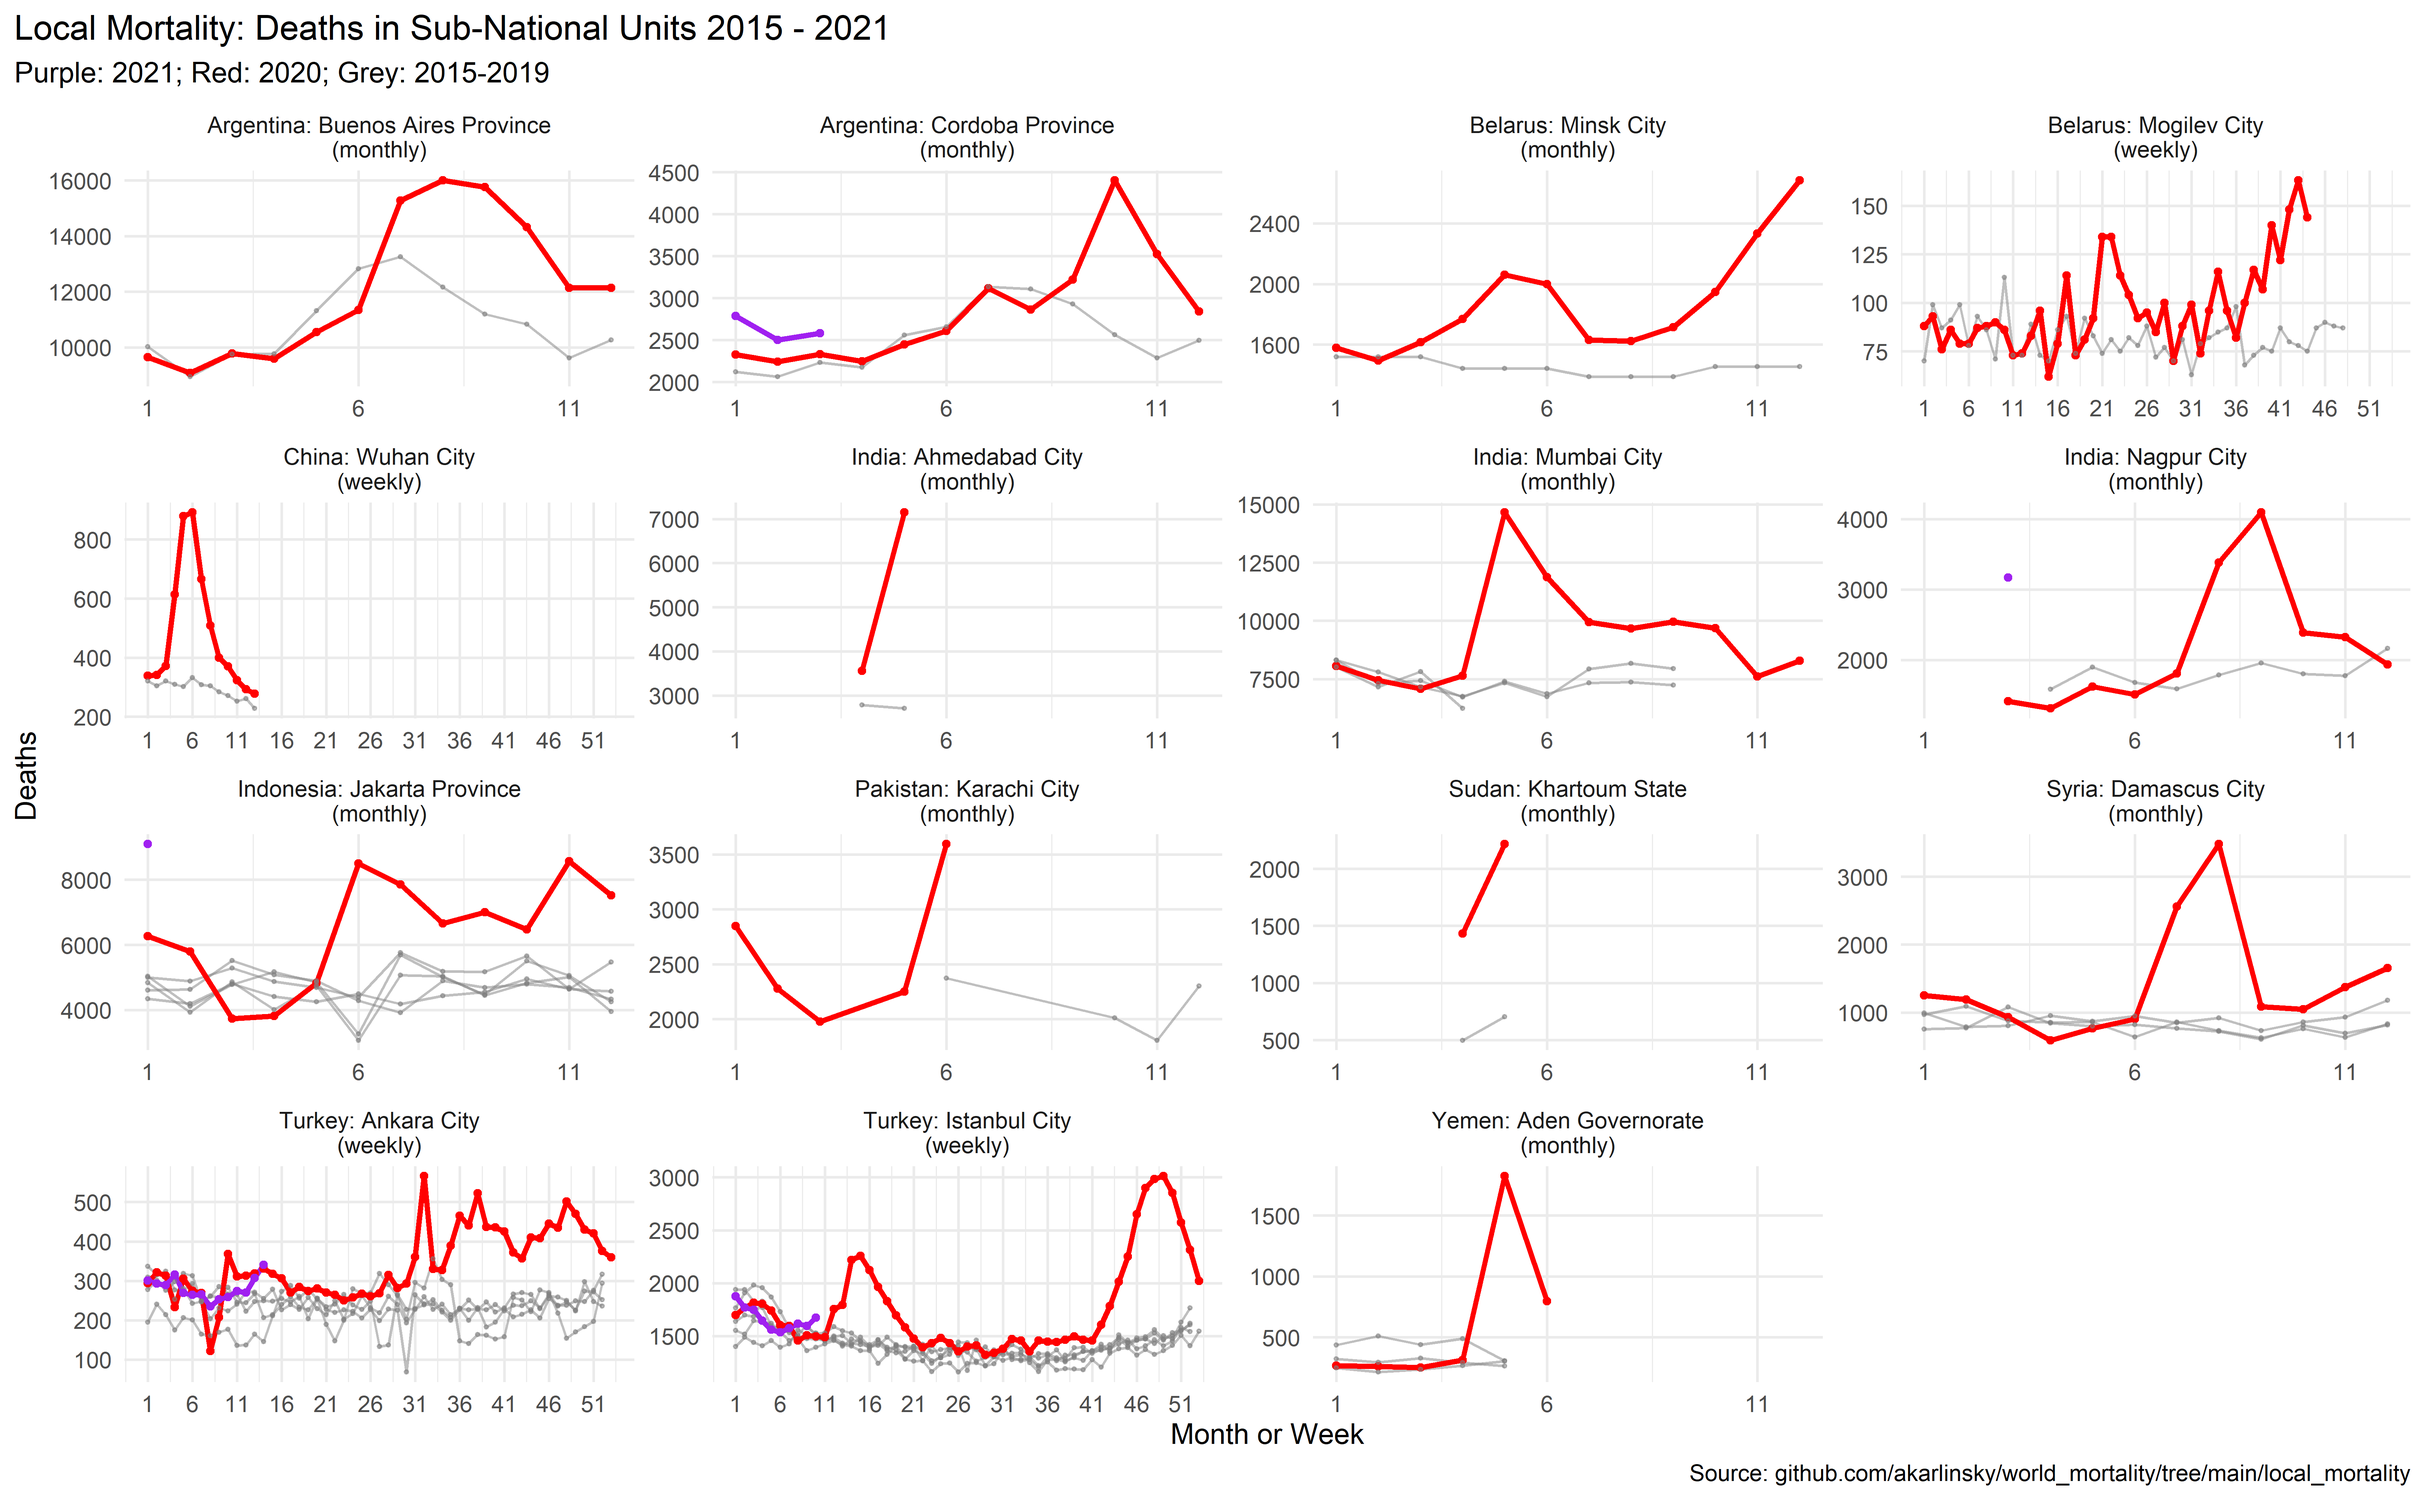
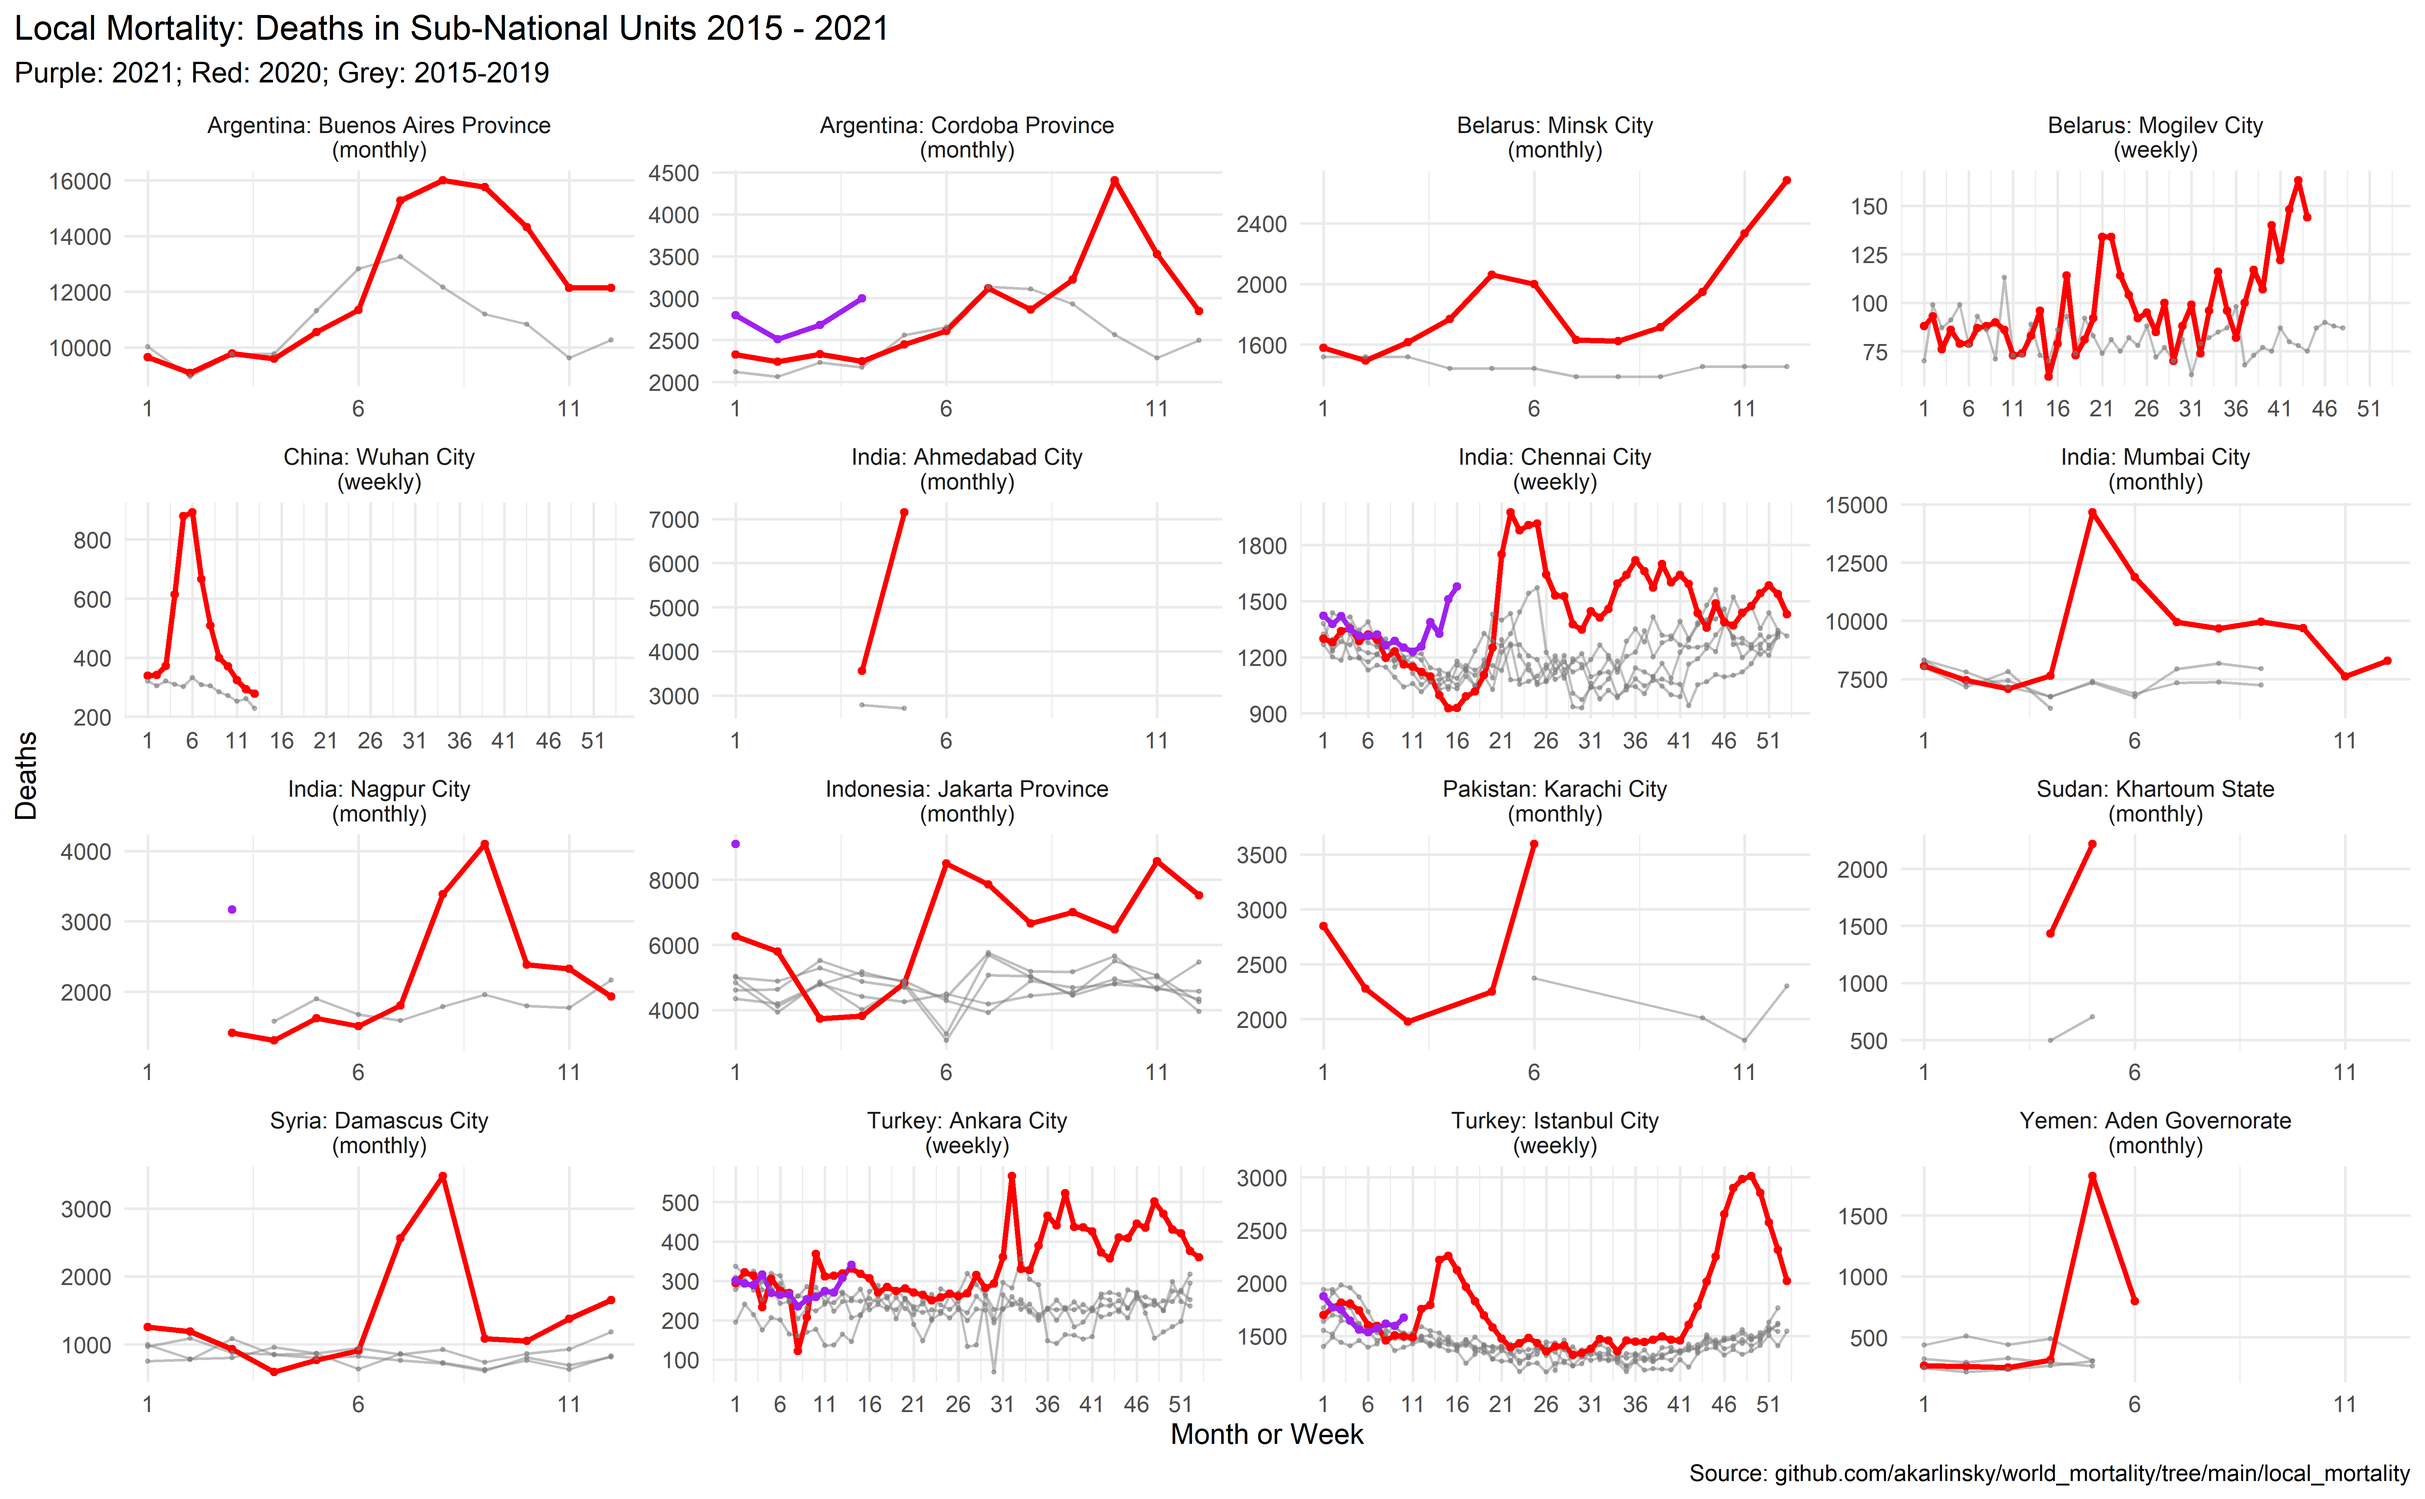
Local Mortality Update
- New data:  Chennai City India,  Cordoba Province, Argentina.

- Revisions: Cordoba Province Argentina.

diff --git a/local_mortality/README.md b/local_mortality/README.md
@@ -5,7 +5,7 @@ Local is any sub-national unit - whether state, province, region, city etc.
 Local Mortality is a sister-project of [World Mortality](https://github.com/akarlinsky/world_mortality), Priority is given to local mortality information from countries which are not present in World Mortality or have very partial information on World Mortality.   
 
 Sources vary by local unit, see below.   
-We are currently providing data for 15 Local Units from 10 Countries.   
+We are currently providing data for 16 Local Units from 10 Countries.   
 We welcome any contributions.   
 
 ![Local Mortality coverage](local_mortality_map.png)
@@ -52,6 +52,11 @@ https://www.bmj.com/content/372/bmj.n415
 ### Ahmedabad City
 https://www.reuters.com/article/us-health-coronavirus-india-casualties-idUSKBN24311A
 
+### Chennai City
+Daily Registered Deaths in Chennai: https://github.com/elseasama/covid19chennai/tree/gh-pages/chennai_data, a scrape of [Chennai Municipal Corporation data](https://chennaicorporation.gov.in/gcc/online-services/death-certificate/).
+
+Information from [Rukmini S](https://twitter.com/Rukmini).
+
 ### Mumbai City
 https://www.indiaspend.com/how-india-could-fill-in-the-blanks-on-excess-mortality/
 
@@ -63,8 +68,6 @@ Information from [Sumitra Debroy](https://twitter.com/debroysumitra).
 https://timesofindia.indiatimes.com/city/nagpur/nov-death-figures-hint-at-undetected-covid-fatalities-in-city/articleshow/79612964.cms
 
 https://timesofindia.indiatimes.com/city/nagpur/hidden-toll-over-1300-more-deaths-after-covid-routine-fatalities-in-mar/articleshow/82169686.cms
-
-
 
 
 ## Indonesia
